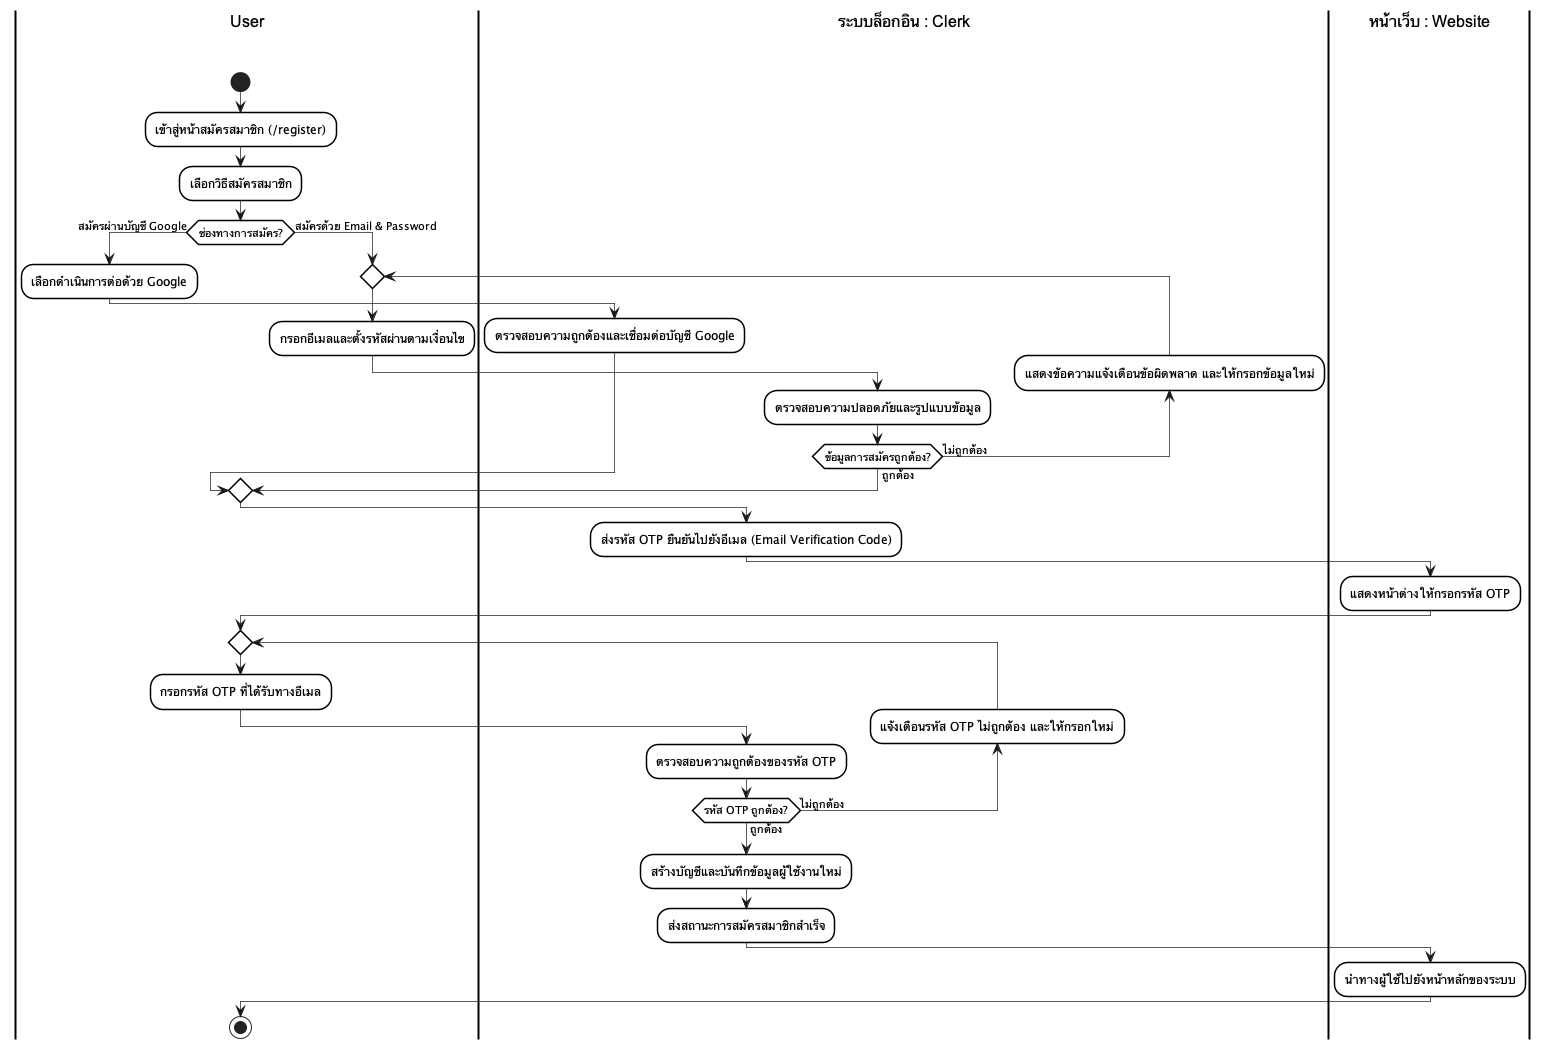
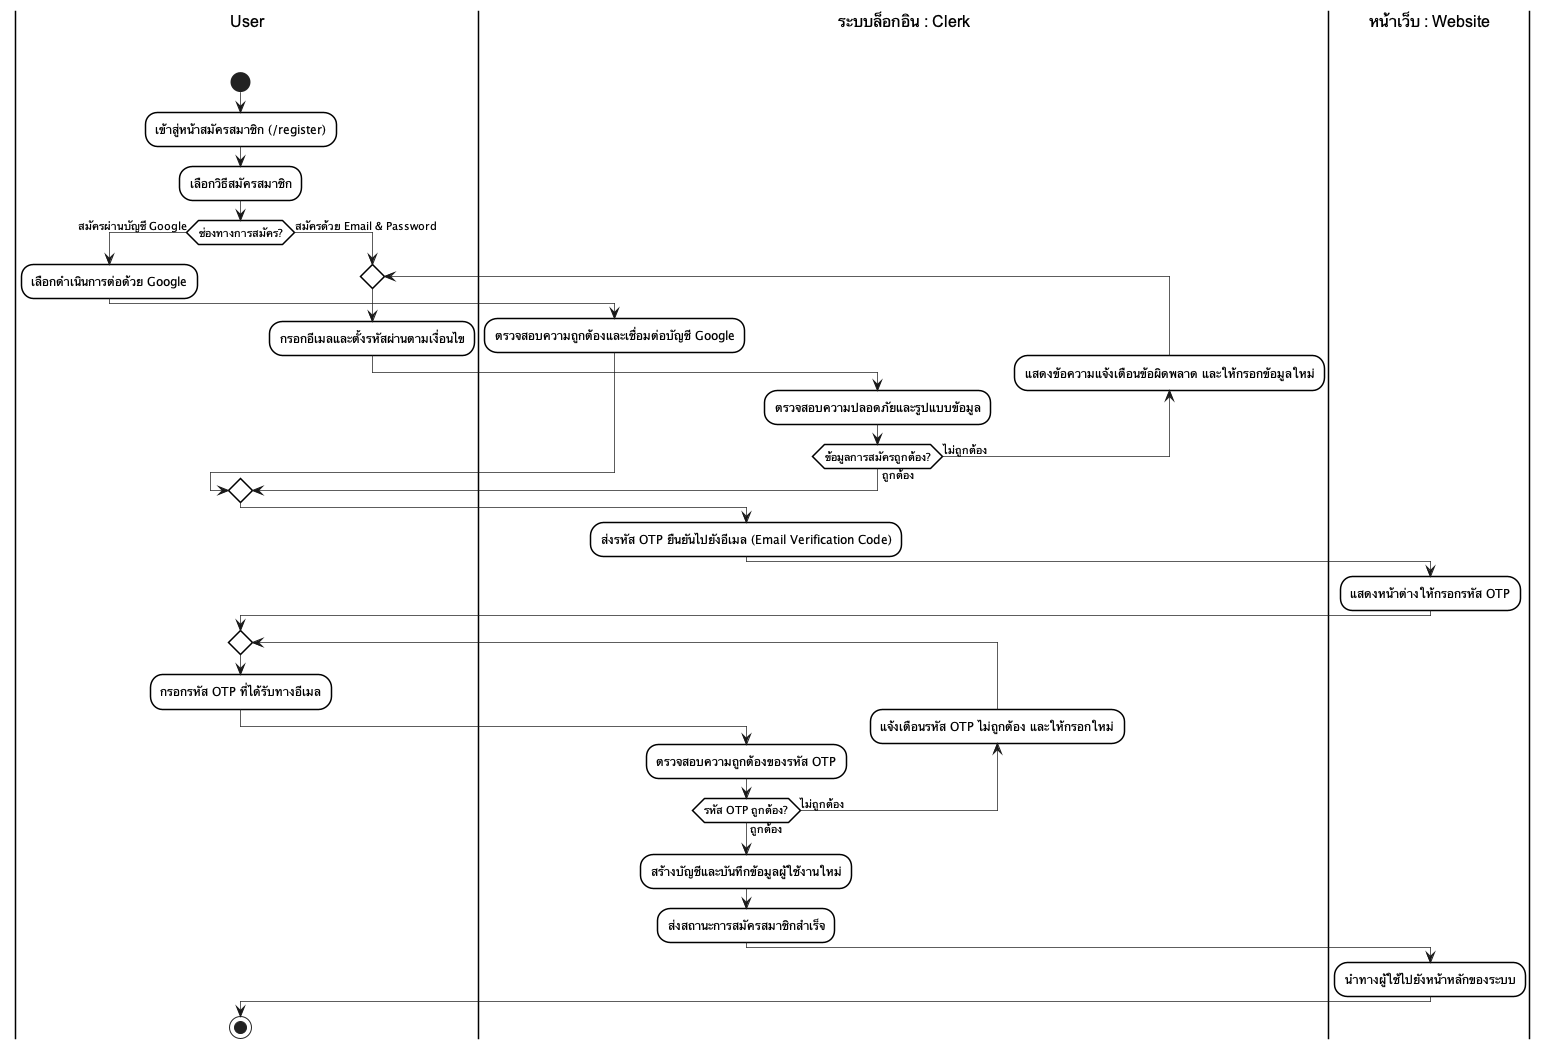
docs: Revert activity diagrams thickness to 1.5, increase sequence diagrams thickness to 3.0

diff --git a/docs/diagrams/plantuml_source/plantuml_sequence_diagrams.md b/docs/diagrams/plantuml_source/plantuml_sequence_diagrams.md
@@ -20,7 +20,7 @@ skinparam ParticipantBorderThickness 1.0
 skinparam ParticipantFontSize 16
 skinparam LifeLineBackgroundColor white
 skinparam LifeLineBorderColor black
-skinparam LifeLineBorderThickness 2.0
+skinparam LifeLineBorderThickness 3.0
 skinparam ArrowColor black
 skinparam ArrowFontSize 16
 skinparam sequenceMessageAlign center
@@ -106,7 +106,7 @@ skinparam ParticipantBorderThickness 1.0
 skinparam ParticipantFontSize 16
 skinparam LifeLineBackgroundColor white
 skinparam LifeLineBorderColor black
-skinparam LifeLineBorderThickness 2.0
+skinparam LifeLineBorderThickness 3.0
 skinparam ArrowColor black
 skinparam ArrowFontSize 16
 skinparam sequenceMessageAlign center
@@ -182,7 +182,7 @@ skinparam ParticipantBorderThickness 1.0
 skinparam ParticipantFontSize 16
 skinparam LifeLineBackgroundColor white
 skinparam LifeLineBorderColor black
-skinparam LifeLineBorderThickness 2.0
+skinparam LifeLineBorderThickness 3.0
 skinparam ArrowColor black
 skinparam ArrowFontSize 16
 skinparam sequenceMessageAlign center
@@ -220,7 +220,7 @@ skinparam ParticipantBorderThickness 1.0
 skinparam ParticipantFontSize 16
 skinparam LifeLineBackgroundColor white
 skinparam LifeLineBorderColor black
-skinparam LifeLineBorderThickness 2.0
+skinparam LifeLineBorderThickness 3.0
 skinparam ArrowColor black
 skinparam ArrowFontSize 16
 skinparam sequenceMessageAlign center
@@ -259,7 +259,7 @@ skinparam ParticipantBorderThickness 1.0
 skinparam ParticipantFontSize 16
 skinparam LifeLineBackgroundColor white
 skinparam LifeLineBorderColor black
-skinparam LifeLineBorderThickness 2.0
+skinparam LifeLineBorderThickness 3.0
 skinparam ArrowColor black
 skinparam ArrowFontSize 16
 skinparam sequenceMessageAlign center
@@ -318,7 +318,7 @@ skinparam ParticipantBorderThickness 1.0
 skinparam ParticipantFontSize 16
 skinparam LifeLineBackgroundColor white
 skinparam LifeLineBorderColor black
-skinparam LifeLineBorderThickness 2.0
+skinparam LifeLineBorderThickness 3.0
 skinparam ArrowColor black
 skinparam ArrowFontSize 16
 skinparam sequenceMessageAlign center
@@ -371,7 +371,7 @@ skinparam ParticipantBorderThickness 1.0
 skinparam ParticipantFontSize 16
 skinparam LifeLineBackgroundColor white
 skinparam LifeLineBorderColor black
-skinparam LifeLineBorderThickness 2.0
+skinparam LifeLineBorderThickness 3.0
 skinparam ArrowColor black
 skinparam ArrowFontSize 16
 skinparam sequenceMessageAlign center
@@ -424,7 +424,7 @@ skinparam ParticipantBorderThickness 1.0
 skinparam ParticipantFontSize 16
 skinparam LifeLineBackgroundColor white
 skinparam LifeLineBorderColor black
-skinparam LifeLineBorderThickness 2.0
+skinparam LifeLineBorderThickness 3.0
 skinparam ArrowColor black
 skinparam ArrowFontSize 16
 skinparam sequenceMessageAlign center
@@ -471,7 +471,7 @@ skinparam ParticipantBorderThickness 1.0
 skinparam ParticipantFontSize 16
 skinparam LifeLineBackgroundColor white
 skinparam LifeLineBorderColor black
-skinparam LifeLineBorderThickness 2.0
+skinparam LifeLineBorderThickness 3.0
 skinparam ArrowColor black
 skinparam ArrowFontSize 16
 skinparam sequenceMessageAlign center
@@ -519,7 +519,7 @@ skinparam ParticipantBorderThickness 1.0
 skinparam ParticipantFontSize 16
 skinparam LifeLineBackgroundColor white
 skinparam LifeLineBorderColor black
-skinparam LifeLineBorderThickness 2.0
+skinparam LifeLineBorderThickness 3.0
 skinparam ArrowColor black
 skinparam ArrowFontSize 16
 skinparam sequenceMessageAlign center
@@ -557,7 +557,7 @@ skinparam ParticipantBorderThickness 1.0
 skinparam ParticipantFontSize 16
 skinparam LifeLineBackgroundColor white
 skinparam LifeLineBorderColor black
-skinparam LifeLineBorderThickness 2.0
+skinparam LifeLineBorderThickness 3.0
 skinparam ArrowColor black
 skinparam ArrowFontSize 16
 skinparam sequenceMessageAlign center
@@ -653,7 +653,7 @@ skinparam ParticipantBorderThickness 1.0
 skinparam ParticipantFontSize 16
 skinparam LifeLineBackgroundColor white
 skinparam LifeLineBorderColor black
-skinparam LifeLineBorderThickness 2.0
+skinparam LifeLineBorderThickness 3.0
 skinparam ArrowColor black
 skinparam ArrowFontSize 16
 skinparam sequenceMessageAlign center
@@ -691,7 +691,7 @@ skinparam ParticipantBorderThickness 1.0
 skinparam ParticipantFontSize 16
 skinparam LifeLineBackgroundColor white
 skinparam LifeLineBorderColor black
-skinparam LifeLineBorderThickness 2.0
+skinparam LifeLineBorderThickness 3.0
 skinparam ArrowColor black
 skinparam ArrowFontSize 16
 skinparam sequenceMessageAlign center
@@ -747,7 +747,7 @@ skinparam ParticipantBorderThickness 1.0
 skinparam ParticipantFontSize 16
 skinparam LifeLineBackgroundColor white
 skinparam LifeLineBorderColor black
-skinparam LifeLineBorderThickness 2.0
+skinparam LifeLineBorderThickness 3.0
 skinparam ArrowColor black
 skinparam ArrowFontSize 16
 skinparam sequenceMessageAlign center
@@ -794,7 +794,7 @@ skinparam ParticipantBorderThickness 1.0
 skinparam ParticipantFontSize 16
 skinparam LifeLineBackgroundColor white
 skinparam LifeLineBorderColor black
-skinparam LifeLineBorderThickness 2.0
+skinparam LifeLineBorderThickness 3.0
 skinparam ArrowColor black
 skinparam ArrowFontSize 16
 skinparam sequenceMessageAlign center

diff --git a/docs/diagrams/plantuml_source/plantuml_activity_diagrams.md b/docs/diagrams/plantuml_source/plantuml_activity_diagrams.md
@@ -14,7 +14,7 @@ skinparam backgroundcolor white
 skinparam ranksep 50
 
 skinparam SwimlaneBorderColor black
-skinparam SwimlaneBorderThickness 2.0
+skinparam SwimlaneBorderThickness 1.5
 skinparam SwimlaneBackgroundColor white
 skinparam SwimlaneTitleBackgroundColor white
 skinparam SwimlaneTitleFontColor black
@@ -77,7 +77,7 @@ skinparam backgroundcolor white
 skinparam ranksep 50
 
 skinparam SwimlaneBorderColor black
-skinparam SwimlaneBorderThickness 2.0
+skinparam SwimlaneBorderThickness 1.5
 skinparam SwimlaneBackgroundColor white
 skinparam SwimlaneTitleBackgroundColor white
 skinparam SwimlaneTitleFontColor black
@@ -131,7 +131,7 @@ skinparam backgroundcolor white
 skinparam ranksep 50
 
 skinparam SwimlaneBorderColor black
-skinparam SwimlaneBorderThickness 2.0
+skinparam SwimlaneBorderThickness 1.5
 skinparam SwimlaneBackgroundColor white
 skinparam SwimlaneTitleBackgroundColor white
 skinparam SwimlaneTitleFontColor black
@@ -168,7 +168,7 @@ skinparam backgroundcolor white
 skinparam ranksep 50
 
 skinparam SwimlaneBorderColor black
-skinparam SwimlaneBorderThickness 2.0
+skinparam SwimlaneBorderThickness 1.5
 skinparam SwimlaneBackgroundColor white
 skinparam SwimlaneTitleBackgroundColor white
 skinparam SwimlaneTitleFontColor black
@@ -205,7 +205,7 @@ skinparam backgroundcolor white
 skinparam ranksep 50
 
 skinparam SwimlaneBorderColor black
-skinparam SwimlaneBorderThickness 2.0
+skinparam SwimlaneBorderThickness 1.5
 skinparam SwimlaneBackgroundColor white
 skinparam SwimlaneTitleBackgroundColor white
 skinparam SwimlaneTitleFontColor black
@@ -251,7 +251,7 @@ skinparam backgroundcolor white
 skinparam ranksep 50
 
 skinparam SwimlaneBorderColor black
-skinparam SwimlaneBorderThickness 2.0
+skinparam SwimlaneBorderThickness 1.5
 skinparam SwimlaneBackgroundColor white
 skinparam SwimlaneTitleBackgroundColor white
 skinparam SwimlaneTitleFontColor black
@@ -295,7 +295,7 @@ skinparam backgroundcolor white
 skinparam ranksep 50
 
 skinparam SwimlaneBorderColor black
-skinparam SwimlaneBorderThickness 2.0
+skinparam SwimlaneBorderThickness 1.5
 skinparam SwimlaneBackgroundColor white
 skinparam SwimlaneTitleBackgroundColor white
 skinparam SwimlaneTitleFontColor black
@@ -340,7 +340,7 @@ skinparam backgroundcolor white
 skinparam ranksep 50
 
 skinparam SwimlaneBorderColor black
-skinparam SwimlaneBorderThickness 2.0
+skinparam SwimlaneBorderThickness 1.5
 skinparam SwimlaneBackgroundColor white
 skinparam SwimlaneTitleBackgroundColor white
 skinparam SwimlaneTitleFontColor black
@@ -379,7 +379,7 @@ skinparam backgroundcolor white
 skinparam ranksep 50
 
 skinparam SwimlaneBorderColor black
-skinparam SwimlaneBorderThickness 2.0
+skinparam SwimlaneBorderThickness 1.5
 skinparam SwimlaneBackgroundColor white
 skinparam SwimlaneTitleBackgroundColor white
 skinparam SwimlaneTitleFontColor black
@@ -422,7 +422,7 @@ skinparam backgroundcolor white
 skinparam ranksep 50
 
 skinparam SwimlaneBorderColor black
-skinparam SwimlaneBorderThickness 2.0
+skinparam SwimlaneBorderThickness 1.5
 skinparam SwimlaneBackgroundColor white
 skinparam SwimlaneTitleBackgroundColor white
 skinparam SwimlaneTitleFontColor black
@@ -457,7 +457,7 @@ skinparam backgroundcolor white
 skinparam ranksep 50
 
 skinparam SwimlaneBorderColor black
-skinparam SwimlaneBorderThickness 2.0
+skinparam SwimlaneBorderThickness 1.5
 skinparam SwimlaneBackgroundColor white
 skinparam SwimlaneTitleBackgroundColor white
 skinparam SwimlaneTitleFontColor black
@@ -525,7 +525,7 @@ skinparam backgroundcolor white
 skinparam ranksep 50
 
 skinparam SwimlaneBorderColor black
-skinparam SwimlaneBorderThickness 2.0
+skinparam SwimlaneBorderThickness 1.5
 skinparam SwimlaneBackgroundColor white
 skinparam SwimlaneTitleBackgroundColor white
 skinparam SwimlaneTitleFontColor black
@@ -560,7 +560,7 @@ skinparam backgroundcolor white
 skinparam ranksep 50
 
 skinparam SwimlaneBorderColor black
-skinparam SwimlaneBorderThickness 2.0
+skinparam SwimlaneBorderThickness 1.5
 skinparam SwimlaneBackgroundColor white
 skinparam SwimlaneTitleBackgroundColor white
 skinparam SwimlaneTitleFontColor black
@@ -607,7 +607,7 @@ skinparam backgroundcolor white
 skinparam ranksep 50
 
 skinparam SwimlaneBorderColor black
-skinparam SwimlaneBorderThickness 2.0
+skinparam SwimlaneBorderThickness 1.5
 skinparam SwimlaneBackgroundColor white
 skinparam SwimlaneTitleBackgroundColor white
 skinparam SwimlaneTitleFontColor black
@@ -648,7 +648,7 @@ skinparam backgroundcolor white
 skinparam ranksep 50
 
 skinparam SwimlaneBorderColor black
-skinparam SwimlaneBorderThickness 2.0
+skinparam SwimlaneBorderThickness 1.5
 skinparam SwimlaneBackgroundColor white
 skinparam SwimlaneTitleBackgroundColor white
 skinparam SwimlaneTitleFontColor black
